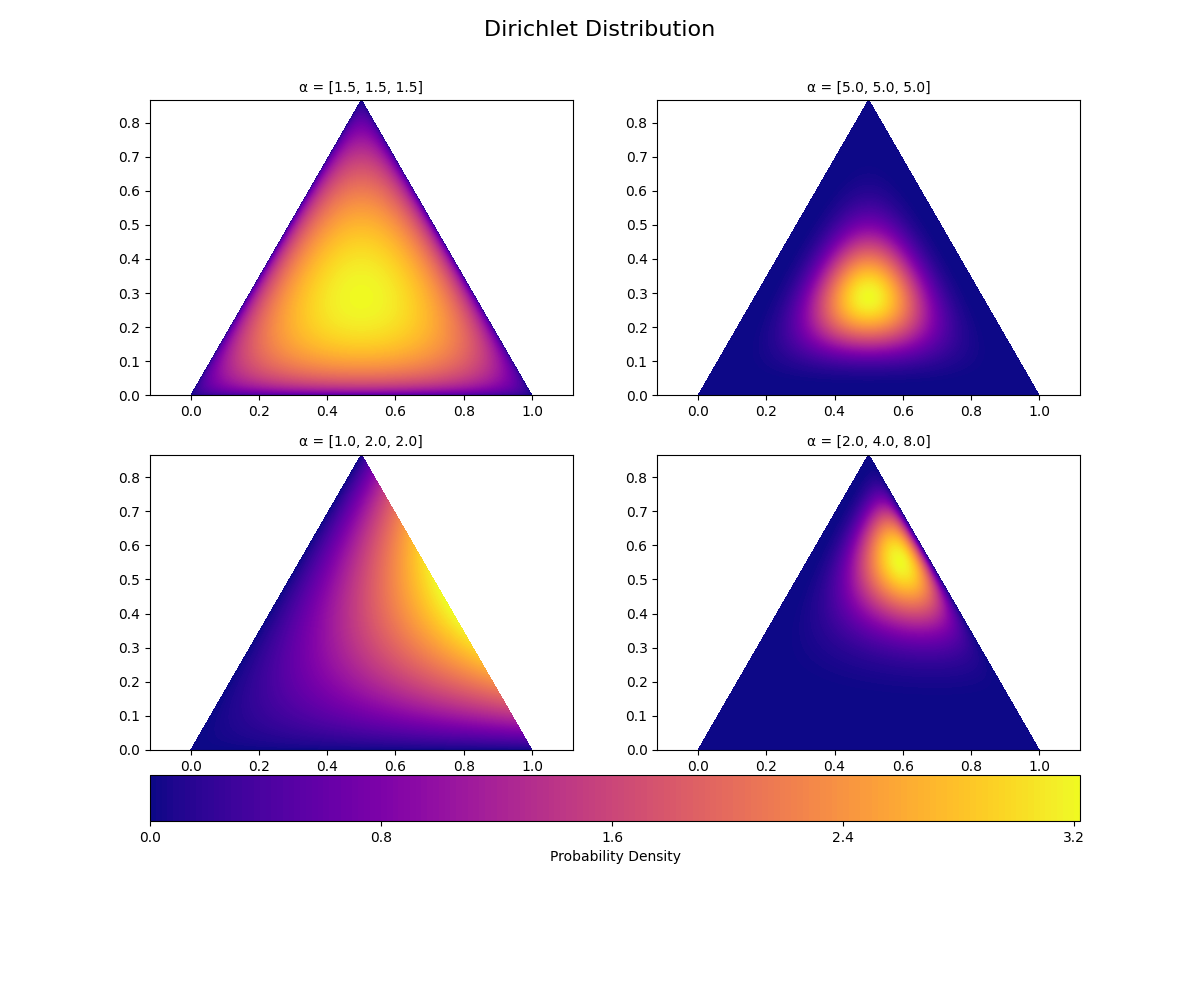
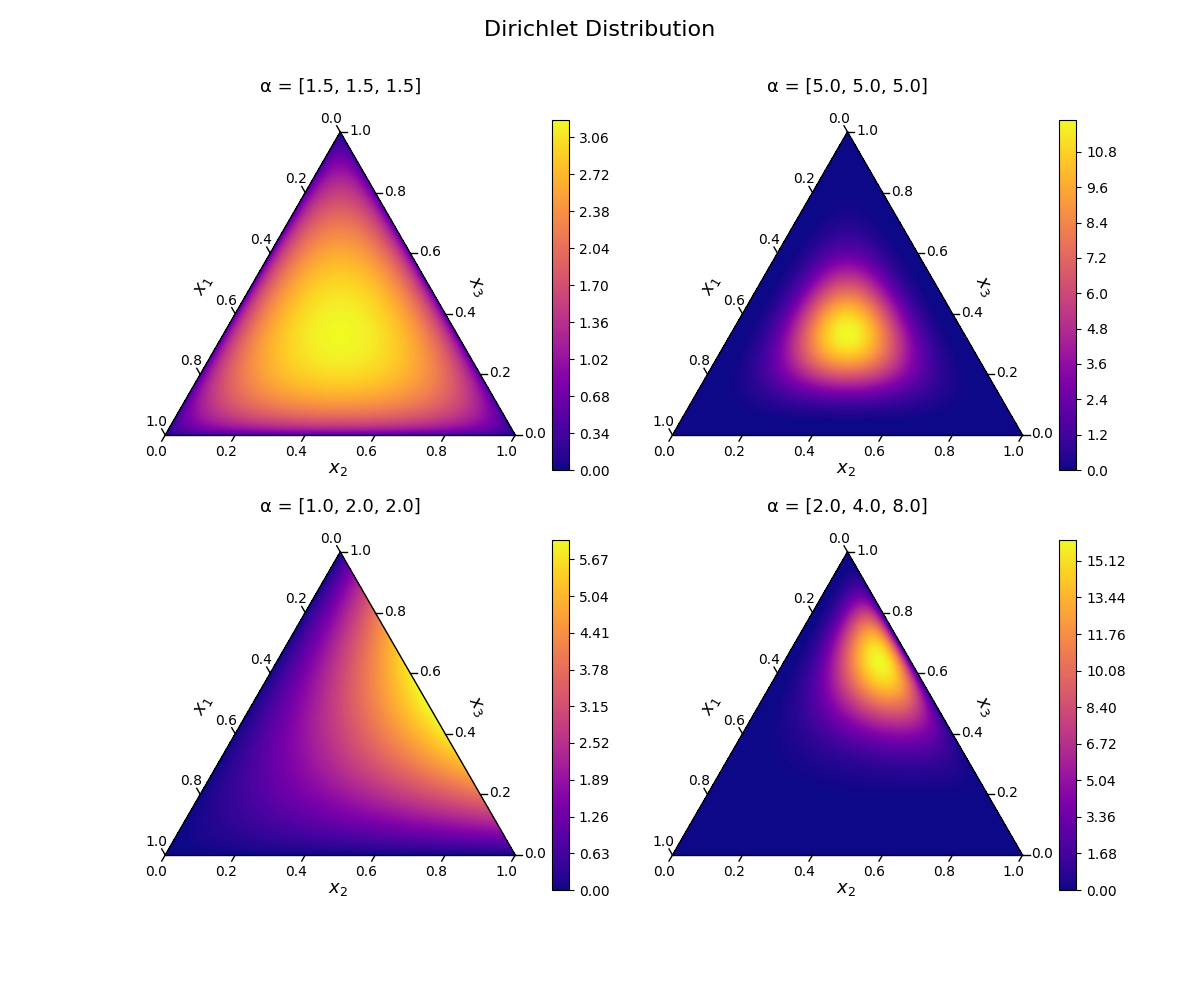
Rewrite Dirichlet for better axes

Changed region(s): [[0.1233, 0.062, 0.925, 0.899], [0.5242, 0.527, 0.555, 0.62]]

diff --git a/src/distributions/dirichlet.py b/src/distributions/dirichlet.py
@@ -2,7 +2,7 @@ import numpy as np
 import matplotlib.pyplot as plt
 import matplotlib.tri as tri
 from math import gamma
-from matplotlib import ticker
+import ternary
 
 
 # Code source: https://blog.bogatron.net/blog/2014/02/02/visualizing-dirichlet-distributions/
@@ -29,19 +29,34 @@ def save_to(directory: str, _: str):
         coords = np.array([tri_area(xy, p) for p in pairs]) / AREA
         return np.clip(coords, tol, 1.0 - tol)
 
-    def draw_pdf_contours(ax, dist, alphas, nlevels=200, subdiv=8):
+    def draw_pdf_contours(ax, alphas, nlevels=200, subdiv=8):
         refiner = tri.UniformTriRefiner(triangle)
         trimesh = refiner.refine_triangulation(subdiv=subdiv)
-        pvals = [dist.pdf(xy2bc(xy)) for xy in zip(trimesh.x, trimesh.y)]
+        pvals = [Dirichlet(alphas).pdf(xy2bc(xy)) for xy in zip(trimesh.x, trimesh.y)]
 
         contour = ax.tricontourf(trimesh, pvals, nlevels, cmap='plasma')
-        ax.axis('equal')
-        ax.set_xlim(0, 1)
-        ax.set_ylim(0, np.sqrt(0.75))
-        ax.axis('on')
-        ax.set_title(f"α = {alphas}", fontsize=10)
+        ternary.plt.colorbar(contour, ax=ax, orientation='vertical', fraction=0.05, pad=0.05)
 
-        return contour
+        ax.axis('equal')
+        ax.spines['top'].set_visible(False)
+        ax.spines['right'].set_visible(False)
+        ax.spines['bottom'].set_visible(False)
+        ax.spines['left'].set_visible(False)
+
+        tax = ternary.TernaryAxesSubplot(ax=ax, scale=1.0)
+
+        tax.boundary(linewidth=1.0)
+
+        tax.ticks(axis='lbr', linewidth=1, multiple=0.2, tick_formats="%.1f", offset=0.02)
+
+        fontsize = 13
+        tax.set_title(f"α = {alphas}", fontsize=fontsize, pad=20)
+        tax.right_axis_label("$x_3$", fontsize=fontsize, offset=0.15)
+        tax.left_axis_label("$x_1$", fontsize=fontsize, offset=0.15)
+        tax.bottom_axis_label("$x_2$", fontsize=fontsize)
+        tax._redraw_labels()  # Won't do this automatically because of the way we are saving the plot
+
+        tax.clear_matplotlib_ticks()
 
     inputs = [
         [1.5, 1.5, 1.5],
@@ -51,17 +66,11 @@ def save_to(directory: str, _: str):
     ]
 
     fig, axes = plt.subplots(2, 2, figsize=(12, 10))
-    contours = []
     for ax, alphas in zip(axes.flatten(), inputs):
-        contour = draw_pdf_contours(ax, Dirichlet(alphas), alphas)
-        contours.append(contour)
+        draw_pdf_contours(ax, alphas)
 
     # Adding the main title and colorbar
-    plt.suptitle('Dirichlet Distribution', fontsize=16)
-    cbar = fig.colorbar(contours[0], ax=axes.ravel().tolist(), orientation='horizontal', pad=0.75)
-    cbar.set_label('Probability Density')
-    cbar.ax.xaxis.set_major_locator(ticker.MaxNLocator(nbins=5))  # Set number of ticks on colorbar
+    ternary.plt.suptitle('Dirichlet Distribution', fontsize=16)
 
-    plt.subplots_adjust(top=0.90, bottom=0.25)  # Adjust the subplots to fit the title and colorbar
-    plt.savefig(f"{directory}/dirichlet.{extension}")
+    ternary.plt.savefig(f"{directory}/dirichlet.{extension}")
     plt.close()

diff --git a/src/distributions/pert.py b/src/distributions/pert.py
@@ -29,7 +29,7 @@ def save_to(directory: str, extension: str):
     # Adding a legend
     box = ax.get_position()
     ax.set_position([box.x0, box.y0, box.width * 0.6, box.height])
-    ax.legend(loc='upper left', bbox_to_anchor=(1, 0.6))
+    ax.legend(loc='upper left', bbox_to_anchor=(1, 1))
     ax.grid()
     ax.margins(x=0, y=0)
     ymin, ymax = ax.get_ylim()
